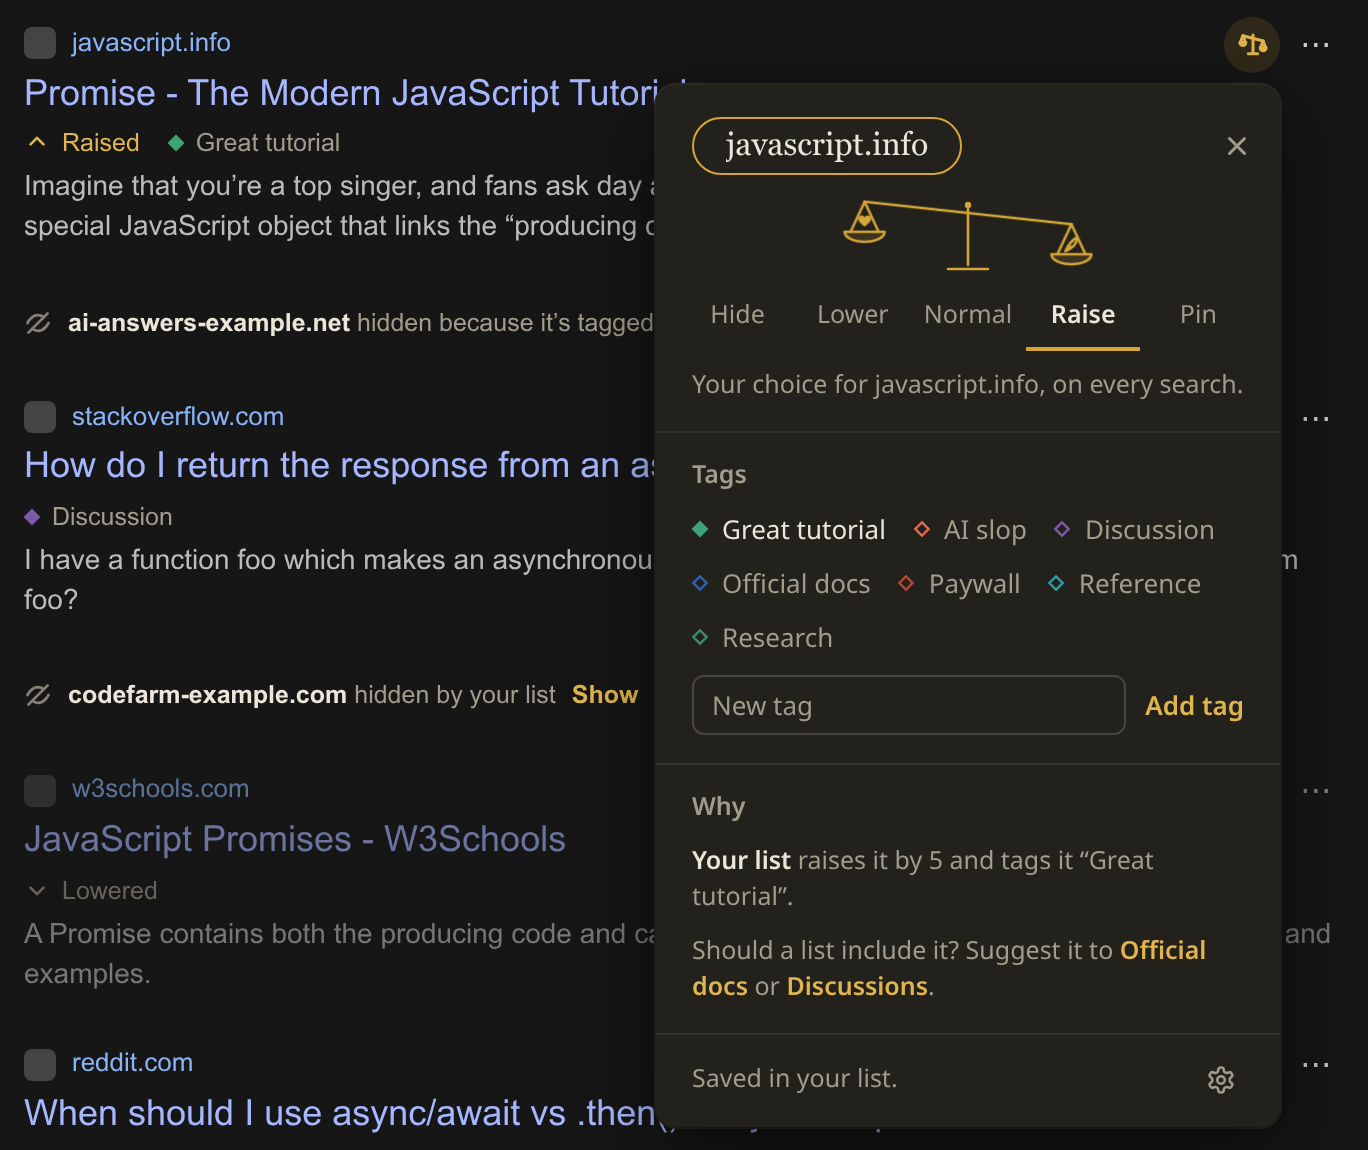
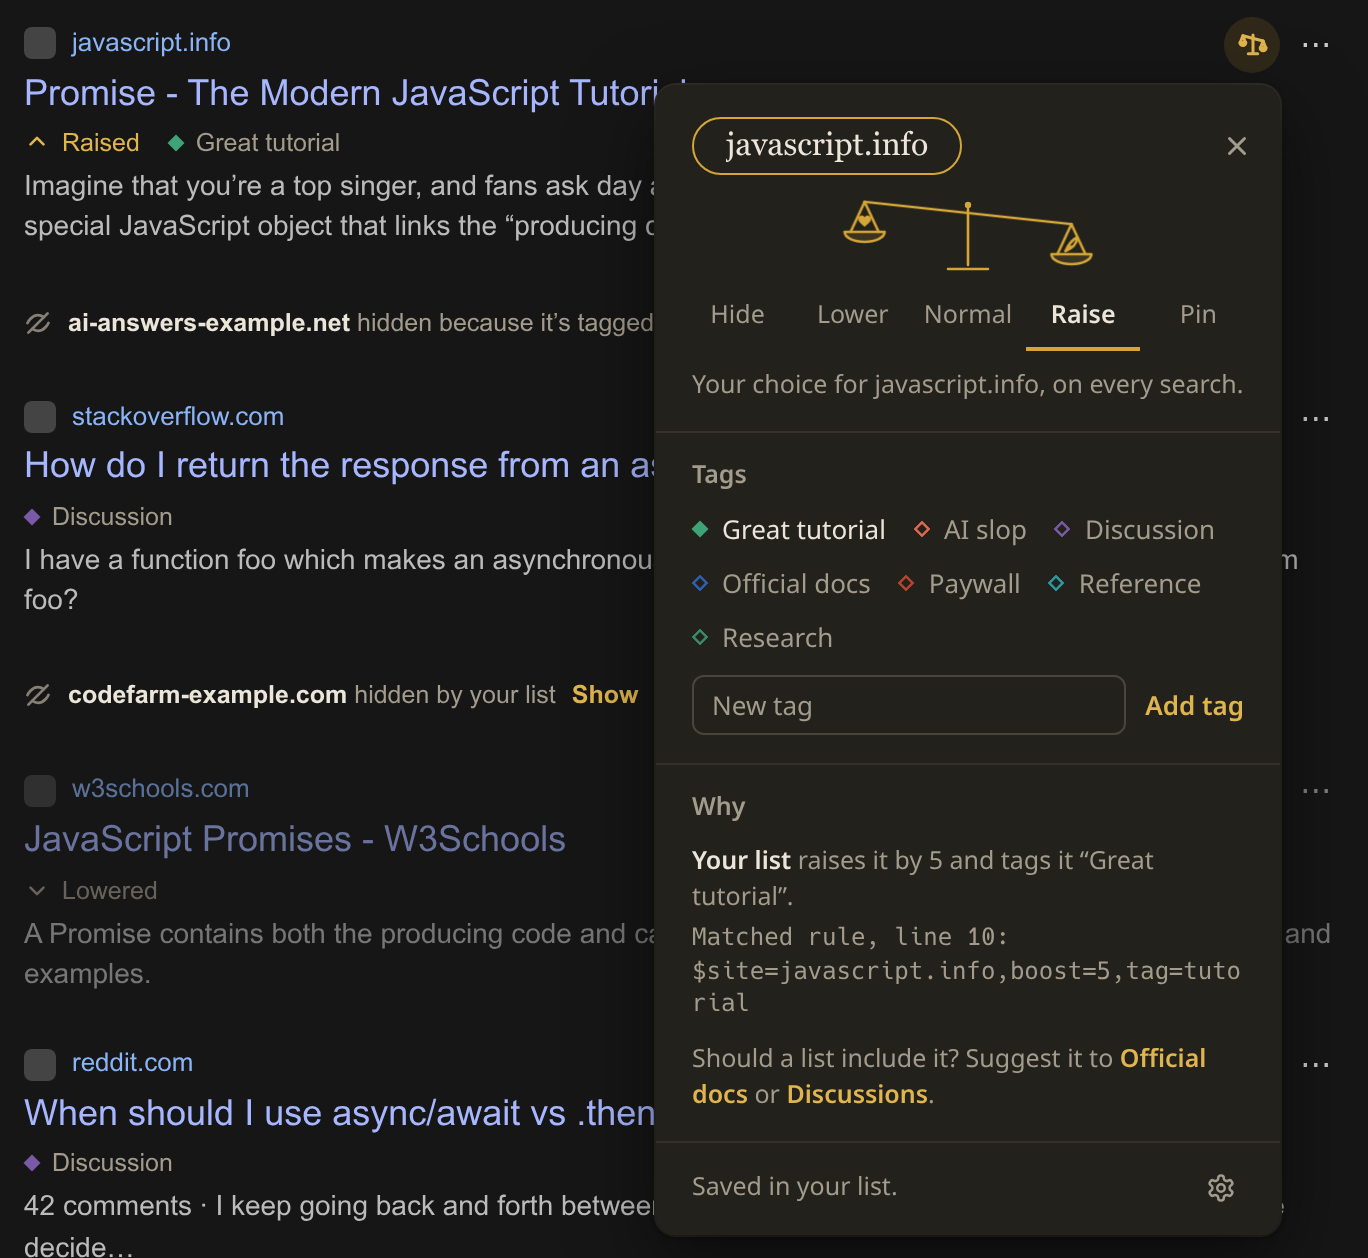
Change sync encryption passphrase safely

diff --git a/utils/webdav.ts b/utils/webdav.ts
@@ -20,7 +20,7 @@ export interface WebdavAccount {
   encryptionReady?: boolean;
 }
 
-export type SyncErrorCode = 'auth' | 'forbidden' | 'folder' | 'permission' | 'network' | 'file' | 'encrypted' | 'passphrase' | 'unencrypted' | 'server' | 'failed';
+export type SyncErrorCode = 'auth' | 'forbidden' | 'folder' | 'permission' | 'network' | 'file' | 'encrypted' | 'passphrase' | 'unencrypted' | 'changed' | 'server' | 'failed';
 
 export interface SyncStatus {
   /** When the last sync finished. */
@@ -41,6 +41,17 @@ export const SYNC_FILE = 'anubis-sync.json';
 
 function sameAccount(a: WebdavAccount | null, b: WebdavAccount): boolean {
   return Boolean(a && a.url === b.url && a.user === b.user && a.password === b.password && a.encryptionPassphrase === b.encryptionPassphrase);
+}
+
+let operationTail: Promise<void> = Promise.resolve();
+
+function serialize<T>(operation: () => Promise<T>): Promise<T> {
+  const next = operationTail.then(operation, operation);
+  operationTail = next.then(
+    () => undefined,
+    () => undefined,
+  );
+  return next;
 }
 
 /** The sync file's address: the address itself if it names a .json file, otherwise `anubis-sync.json` in that folder. */
@@ -160,6 +171,7 @@ async function syncOnce(account: WebdavAccount): Promise<void> {
       const body = account.encryptionPassphrase ? await encryptSyncData(merged, account.encryptionPassphrase) : JSON.stringify(toBackup(merged), null, 2);
       const put = await request(account, 'PUT', url, headers, body);
       if (put.status === 412 && !last) continue;
+      if (put.status === 412) throw new SyncError('changed');
       if (!put.ok) throw httpError(put.status);
     }
     // Unless another server was connected meanwhile, whose first sync starts afresh.
@@ -186,7 +198,7 @@ export function syncWithServer(): Promise<SyncStatus | null> {
     });
     return queued;
   }
-  running = (async () => {
+  running = serialize(async () => {
     const account = await accountItem.getValue();
     if (!account) return null;
     let status: SyncStatus;
@@ -200,10 +212,55 @@ export function syncWithServer(): Promise<SyncStatus | null> {
     // Disconnected meanwhile: leave nothing behind.
     if (sameAccount(await accountItem.getValue(), account)) await statusItem.setValue(status);
     return status;
-  })().finally(() => {
+  }).finally(() => {
     running = undefined;
   });
   return running;
+}
+
+/**
+ * Re-encrypt the shared file under a new passphrase. The current file must be
+ * readable here and support a strong ETag so concurrent writes cannot be lost.
+ */
+export function changeEncryptionPassphrase(nextPassphrase: string): Promise<SyncStatus | null> {
+  return serialize(async () => {
+    const account = await accountItem.getValue();
+    if (!account?.encryptionPassphrase) return null;
+    let status: SyncStatus;
+    try {
+      if (nextPassphrase.length < 12) throw new SyncError('failed');
+      const url = syncFileUrl(account.url);
+      const needed = permissionsFor(account.url, await supportsDataConsent());
+      if (!(await browser.permissions.contains(needed as PermissionRequest))) throw new SyncError('permission');
+      const got = await request(account, 'GET', url);
+      if (got.status === 404) throw new SyncError('file');
+      if (!got.ok) throw httpError(got.status);
+      const etag = got.headers.get('ETag');
+      if (!etag || etag.startsWith('W/')) throw new SyncError('changed');
+      const text = await got.text();
+      if (!isEncryptedSyncFile(text)) throw new SyncError('unencrypted');
+      const data = await decryptSyncData(text, account.encryptionPassphrase);
+      const body = await encryptSyncData(data, nextPassphrase);
+      if (!sameAccount(await accountItem.getValue(), account)) throw new SyncError('changed');
+      const put = await request(account, 'PUT', url, { 'Content-Type': 'application/json', 'If-Match': etag }, body);
+      if (put.status === 412) throw new SyncError('changed');
+      if (!put.ok) throw httpError(put.status);
+      const updated = { ...account, encryptionPassphrase: nextPassphrase, encryptionReady: true };
+      await accountItem.setValue(updated);
+      status = { at: Date.now() };
+    } catch (error) {
+      console.warn('[anubis] changing the sync encryption passphrase failed', error);
+      status =
+        error instanceof SyncError
+          ? { at: Date.now(), error: error.code, status: error.status }
+          : error instanceof EncryptedFileError
+            ? { at: Date.now(), error: error.reason === 'passphrase' ? 'passphrase' : error.reason === 'encrypted' ? 'encrypted' : 'file' }
+            : { at: Date.now(), error: 'failed' };
+    }
+    const current = await accountItem.getValue();
+    if (sameAccount(current, account) || current?.encryptionPassphrase === nextPassphrase) await statusItem.setValue(status);
+    return status;
+  });
 }
 
 /** Sync if something changed here since the last sync. */

diff --git a/tests/webdav.test.ts b/tests/webdav.test.ts
@@ -3,8 +3,8 @@ import { fakeBrowser } from 'wxt/testing/fake-browser';
 import { collectData, toBackup } from '@/utils/backup';
 import { listSites, setSite, setSiteLevel } from '@/utils/personal';
 import { editPersonal, loadPersonal, updateSettings } from '@/utils/storage';
-import { accountItem, connect, statusItem, syncChanges, syncFileUrl, syncWithServer } from '@/utils/webdav';
-import { decryptSyncData, isEncryptedSyncFile } from '@/utils/webdav-crypto';
+import { accountItem, changeEncryptionPassphrase, connect, statusItem, syncChanges, syncFileUrl, syncWithServer } from '@/utils/webdav';
+import { decryptSyncData, encryptSyncData, isEncryptedSyncFile } from '@/utils/webdav-crypto';
 
 // Two browsers (each with its own storage, as Firefox and Chrome have) syncing
 // through one fake WebDAV server.
@@ -19,6 +19,7 @@ class FakeDav {
   requests: string[] = [];
   /** Runs before the next PUT is handled: another browser saving in between. */
   beforePut?: () => void;
+  putStatus?: number;
   private version = 0;
 
   save(url: string, body: string) {
@@ -37,6 +38,7 @@ class FakeDav {
     const hook = this.beforePut;
     this.beforePut = undefined;
     hook?.();
+    if (this.putStatus) return new Response(null, { status: this.putStatus });
     const file = this.files.get(url);
     if (headers['If-Match'] && headers['If-Match'] !== file?.etag) return new Response(null, { status: 412 });
     if (headers['If-None-Match'] === '*' && file) return new Response(null, { status: 412 });
@@ -201,6 +203,53 @@ describe('syncing through a WebDAV server', () => {
     expect((await syncWithServer())?.error).toBe('unencrypted');
     expect(server.files.get(FILE)!.body).toContain('"anubis":1');
     expect((await accountItem.getValue())?.encryptionReady).toBe(true);
+  });
+
+  it('changes the passphrase only after re-encrypting the shared file', async () => {
+    await editPersonal((text) => setSite(text, 'rotation.example', 'pin', []));
+    await connect(ENCRYPTED_ACCOUNT);
+    await syncWithServer();
+
+    expect((await changeEncryptionPassphrase('a different new passphrase'))?.error).toBeUndefined();
+    const body = server.files.get(FILE)!.body;
+    expect(isEncryptedSyncFile(body)).toBe(true);
+    expect((await decryptSyncData(body, 'a different new passphrase')).personal).toContain('rotation.example');
+    await expect(decryptSyncData(body, ENCRYPTED_ACCOUNT.encryptionPassphrase)).rejects.toThrow();
+    expect((await accountItem.getValue())?.encryptionPassphrase).toBe('a different new passphrase');
+  });
+
+  it('leaves the file and saved passphrase unchanged when the current passphrase is wrong', async () => {
+    await connect(ENCRYPTED_ACCOUNT);
+    await syncWithServer();
+    const original = server.files.get(FILE)!.body;
+    const wrong = { ...ENCRYPTED_ACCOUNT, encryptionPassphrase: 'wrong current passphrase' };
+    await accountItem.setValue(wrong);
+
+    expect((await changeEncryptionPassphrase('a different new passphrase'))?.error).toBe('passphrase');
+    expect(server.files.get(FILE)!.body).toBe(original);
+    expect(await accountItem.getValue()).toEqual(wrong);
+  });
+
+  it('does not overwrite a concurrent server edit while changing the passphrase', async () => {
+    await connect(ENCRYPTED_ACCOUNT);
+    await syncWithServer();
+    const concurrent = await encryptSyncData(await collectData(), ENCRYPTED_ACCOUNT.encryptionPassphrase);
+    server.beforePut = () => server.save(FILE, concurrent);
+
+    expect((await changeEncryptionPassphrase('a different new passphrase'))?.error).toBe('changed');
+    expect(server.files.get(FILE)!.body).toBe(concurrent);
+    expect((await accountItem.getValue())?.encryptionPassphrase).toBe(ENCRYPTED_ACCOUNT.encryptionPassphrase);
+  });
+
+  it('keeps the old passphrase when the server rejects the replacement file', async () => {
+    await connect(ENCRYPTED_ACCOUNT);
+    await syncWithServer();
+    const original = server.files.get(FILE)!.body;
+    server.putStatus = 500;
+
+    expect((await changeEncryptionPassphrase('a different new passphrase'))).toMatchObject({ error: 'server', status: 500 });
+    expect(server.files.get(FILE)!.body).toBe(original);
+    expect((await accountItem.getValue())?.encryptionPassphrase).toBe(ENCRYPTED_ACCOUNT.encryptionPassphrase);
   });
 
   it('gives a fresh browser everything from the server, without bringing back what the first removed', async () => {

diff --git a/entrypoints/options/sync.ts b/entrypoints/options/sync.ts
@@ -5,6 +5,7 @@ import { send } from '@/utils/messages';
 import { personalIsLocal, SYNC_QUOTA_BYTES, syncBytesInUse } from '@/utils/storage';
 import {
   accountItem,
+  changeEncryptionPassphrase,
   connect,
   disconnect,
   hasDataConsent,
@@ -38,6 +39,7 @@ const ERRORS: Record<SyncErrorCode, MessageKey> = {
   encrypted: 'webdavErrorNeedsPassphrase',
   passphrase: 'webdavErrorWrongPassphrase',
   unencrypted: 'webdavErrorUnencrypted',
+  changed: 'webdavErrorChanged',
 };
 
 const host = (account: WebdavAccount) => new URL(account.url).hostname;
@@ -185,6 +187,40 @@ function encryptionSetup(account: WebdavAccount, requestDataConsent: boolean, up
   return form;
 }
 
+function changePassphrasePanel(): HTMLElement {
+  const input = h('input', { id: 'webdav-new-passphrase', type: 'password', autocomplete: 'new-password' });
+  const confirmation = h('input', { id: 'webdav-new-passphrase-confirm', type: 'password', autocomplete: 'new-password' });
+  const form = h(
+    'form',
+    { class: 'fields' },
+    h('h3', null, t('webdavChangePassphrase')),
+    h('p', { class: 'muted' }, t('webdavChangePassphraseHint')),
+    h('label', { attrs: { for: 'webdav-new-passphrase' } }, t('webdavEncryptionPassphrase')),
+    input,
+    h('label', { attrs: { for: 'webdav-new-passphrase-confirm' } }, t('webdavConfirmPassphrase')),
+    confirmation,
+    h('button', { class: 'btn', type: 'submit', disabled: syncing }, t('webdavChangePassphrase')),
+  );
+  form.addEventListener('submit', async (event) => {
+    event.preventDefault();
+    if (syncing) return;
+    if (input.value.length < 12) {
+      flash('sync', 'error', t('webdavEncryptionShort'));
+      return rerender();
+    }
+    if (input.value !== confirmation.value) {
+      flash('sync', 'error', t('webdavPassphraseMismatch'));
+      return rerender();
+    }
+    syncing = true;
+    rerender();
+    await changeEncryptionPassphrase(input.value);
+    syncing = false;
+    rerender();
+  });
+  return form;
+}
+
 function connectedPanel(account: WebdavAccount, status: SyncStatus | null, dataConsent: boolean, requestDataConsent: boolean): HTMLElement {
   const failed = status?.error && t(ERRORS[status.error], status.error === 'server' ? String(status.status ?? '') : host(account));
   const leave = async () => {
@@ -207,6 +243,9 @@ function connectedPanel(account: WebdavAccount, status: SyncStatus | null, dataC
     !account.encryptionPassphrase || status?.error === 'passphrase' || status?.error === 'encrypted'
       ? encryptionSetup(account, requestDataConsent, Boolean(account.encryptionPassphrase))
       : null,
+    account.encryptionPassphrase && account.encryptionReady && status?.error !== 'passphrase' && status?.error !== 'encrypted'
+      ? changePassphrasePanel()
+      : null,
     syncing
       ? h('div', { class: 'notice' }, t('webdavSyncing'))
       : failed
@@ -218,7 +257,7 @@ function connectedPanel(account: WebdavAccount, status: SyncStatus | null, dataC
       'div',
       { class: 'toolbar', style: 'margin-top:12px' },
       h('button', { class: 'btn primary', type: 'button', disabled: syncing, on: { click: () => syncNow(account, requestDataConsent) } }, t('webdavSyncNow')),
-      h('button', { class: 'btn', type: 'button', on: { click: () => void leave() } }, t('webdavDisconnect')),
+      h('button', { class: 'btn', type: 'button', disabled: syncing, on: { click: () => void leave() } }, t('webdavDisconnect')),
     ),
     flashed('sync'),
   );

diff --git a/entrypoints/content/ui.ts b/entrypoints/content/ui.ts
@@ -1150,7 +1150,19 @@ function buildPopover(
           { class: 'section' },
           h('h3', null, 'Why'),
           reasons.length
-            ? h('ul', { class: 'reasons' }, reasons.map((r) => h('li', null, h('b', null, r.list), ` ${r.text}.`)))
+            ? h(
+                'ul',
+                { class: 'reasons' },
+                reasons.map((r) =>
+                  h(
+                    'li',
+                    null,
+                    h('b', null, r.list),
+                    ` ${r.text}.`,
+                    r.rule ? h('small', null, t('menuMatchedRule', r.rule.line, r.rule.raw)) : null,
+                  ),
+                ),
+              )
             : null,
           reportLinks.length ? h('p', { class: 'forge' }, tList('menuReport', reportLinks, 'disjunction')) : null,
           suggestLinks.length ? h('p', { class: 'forge' }, tList('menuSuggest', suggestLinks, 'disjunction')) : null,

diff --git a/entrypoints/content/shadow.css b/entrypoints/content/shadow.css
@@ -542,6 +542,12 @@ button {
   font-weight: 600;
   color: var(--text);
 }
+.reasons small {
+  display: block;
+  margin: 3px 0 1px;
+  font: 12px/1.4 ui-monospace, 'SF Mono', Menlo, Consolas, monospace;
+  overflow-wrap: anywhere;
+}
 .foot {
   display: flex;
   align-items: center;

diff --git a/entrypoints/options/style.css b/entrypoints/options/style.css
@@ -155,6 +155,14 @@ main {
   margin-bottom: 12px;
   font-size: 13px;
 }
+.fields > h3,
+.fields > p {
+  grid-column: 1 / -1;
+  margin: 0;
+}
+.fields > p {
+  color: var(--muted);
+}
 .fields .hint {
   grid-column: 2;
   margin-top: -4px;

diff --git a/docs/experiments.md b/docs/experiments.md
@@ -2,6 +2,15 @@
 
 What was tried while building the tagging and lists release, what failed, and what is still unverified. Newest notes go at the top of each section.
 
+## WebDAV passphrase changes and recovery (2026-09-29)
+
+- **Built:** Settings can change an established encryption passphrase. Anubis reads and decrypts the current encrypted file, encrypts the same data with the new passphrase, and replaces it only with a strong `If-Match` ETag. A missing/weak ETag, concurrent edit, wrong current key, or failed write leaves the saved passphrase unchanged. Other browsers must get the new passphrase before their next sync.
+- **Rejected:** running a normal merge sync before rotating the key. That could write changes using the old passphrase before a later rotation failure; the rotation now changes only the encryption on the exact server copy it read.
+- **Test correction:** the encrypted envelope is format 2, but its decrypted backup payload remains format 1. The first browser assertion checked the payload as though it were the envelope; it now checks both layers separately.
+- **Recovery:** added a specific concurrent-change status with a retry instruction. Existing status messages already explain how to recover from denied permission, login, folder, network, unreadable-file, wrong-key, and plaintext-downgrade errors; the sync guide now explains updating other browsers after rotation.
+- **Ranking explanations:** the result menu already identified each list and its action, so no second explanation system was needed. It now also shows the exact matched list rule and line number; the matcher already retained both for report links.
+- **Checked:** unit tests cover successful rotation, wrong current passphrase, a concurrent ETag change, server rejection, and matcher reasons. The browser check now requires a matched rule in the result menu. The Settings and result-menu documentation screenshots are regenerated from the mocks.
+
 ## Store privacy disclosure (2026-09-29)
 
 - **Checked:** Google's [User Data FAQ](https://developer.chrome.com/docs/webstore/program-policies/user-data-faq) says local processing is handling user data and needs disclosure. Its FTP/IRC example says data exchanged with a server chosen by the user is not collected for the developer, and Limited Use does not apply to that transfer. Anubis's optional WebDAV connection follows that model: the user supplies the server, Anubis has no sync endpoint, and the sync file goes only to that server. The exception is about this transfer; it does not erase the separate local processing of search results and the current tab's address.

diff --git a/docs/guide/sync.md b/docs/guide/sync.md
@@ -57,6 +57,12 @@ This protects the file's contents, not the fact that you connect to the server. 
 
 Anubis keeps the passphrase in that browser's local extension storage to sync automatically. It is not protected from someone who can access your browser profile or run code as you. WebDAV credentials are also saved locally and sent to the server to sign in.
 
+### Change the passphrase
+
+In **Settings → Sync**, use **Change encryption passphrase**. Enter and confirm a new passphrase of at least 12 characters. Anubis first checks that the current passphrase decrypts the server file, then replaces it only if the server confirms nobody changed it in between. If that check or write fails, Anubis keeps the current passphrase and does not overwrite the file. Sync first and retry if the file changed during the operation.
+
+After a successful change, enter the new passphrase in every other browser before it syncs. A browser still using the old passphrase cannot read or change the encrypted file; it will report the passphrase error and leave the file alone.
+
 New connections use encryption by default. To turn it off, uncheck the option when connecting; the server operator will then be able to read the file. Existing connections remain unencrypted until you enter and confirm a passphrase in Settings → Sync and choose **Save passphrase and sync**. An encrypted file requires the passphrase in every browser; Anubis will not overwrite it if a passphrase is missing or wrong. Plain backups exported from Settings are not encrypted by this feature.
 
 ### When it syncs
